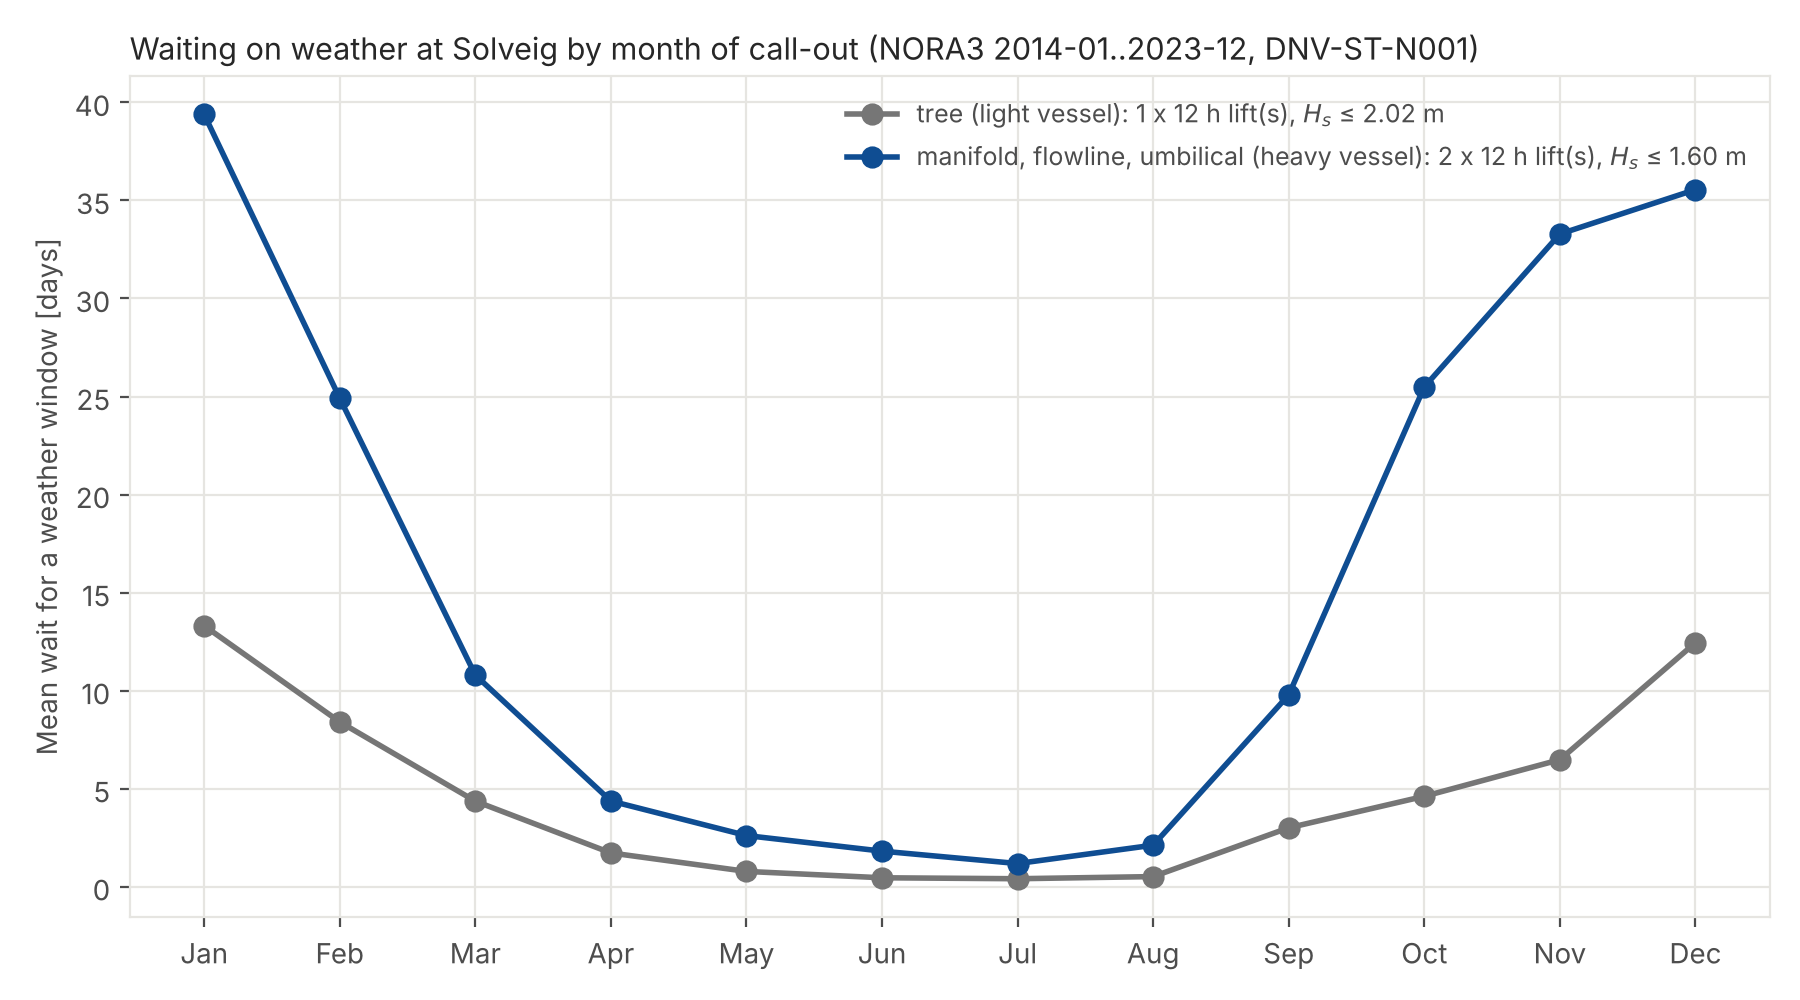
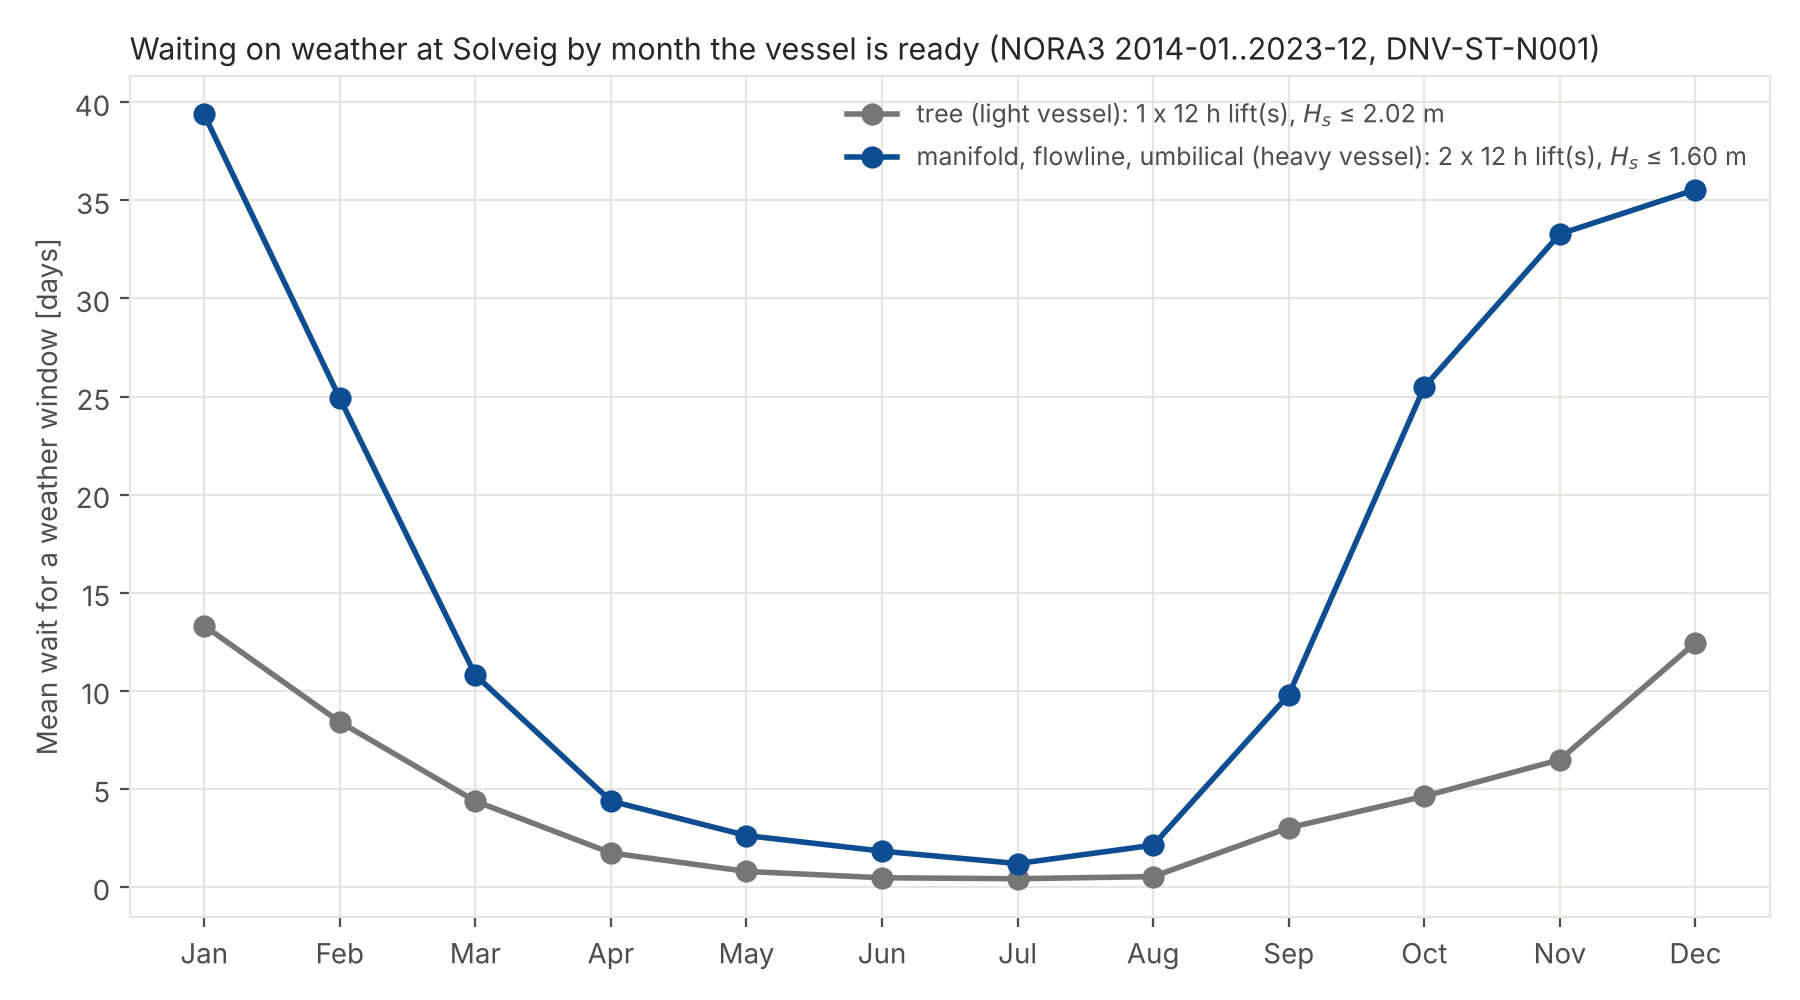
Review fixes: Solveig enumeration test, weather wait wording, Figure 5 label
- tests: cases 1 and 2 of the Solveig case match full enumeration (4,096 assignments)
- weather wait is measured from the hour the vessel is ready, not from call-out:
  Figure 5 x-axis label, weather_windows.py title and the notes in the generated
  summer/winter configs now say so (values unchanged)

Claude-Session: https://claude.ai/code/session_01CSCPdJPHtsRQLDc3d7AWC5

Changed region(s): [[0.3733, 0.031, 0.9022, 0.062]]

diff --git a/scripts/weather_windows.py b/scripts/weather_windows.py
@@ -120,7 +120,7 @@ def main(cfg_path, hs_path):
     ax.set_xticks(range(1, 13), ["Jan", "Feb", "Mar", "Apr", "May", "Jun", "Jul", "Aug", "Sep", "Oct",
                                  "Nov", "Dec"])
     ax.set_ylabel("Mean wait for a weather window [days]", color=C_INK_2)
-    ax.set_title(f"Waiting on weather at Solveig by month of call-out (NORA3 {years}, DNV-ST-N001)",
+    ax.set_title(f"Waiting on weather at Solveig by month the vessel is ready (NORA3 {years}, DNV-ST-N001)",
                  loc="left", color=C_INK, fontsize=11)
     ax.legend(frameon=False, labelcolor=C_INK_2, fontsize=9)
     ax.grid(True, color=C_GRID, lw=0.8)
@@ -134,8 +134,8 @@ def main(cfg_path, hs_path):
     base = Path(cfg_path).name
     for name, mode, season, note in (
             ("solveig_weather.yaml", base_mode, "year", "North Sea case with year-round mean waiting on weather (base)."),
-            ("solveig_weather_winter.yaml", base_mode, "winter", "All repairs called out in winter (Oct-Mar)."),
-            ("solveig_weather_summer.yaml", base_mode, "summer", "All repairs called out in summer (Apr-Sep)."),
+            ("solveig_weather_winter.yaml", base_mode, "winter", "Bound: every repair vessel is ready in winter (Oct-Mar)."),
+            ("solveig_weather_summer.yaml", base_mode, "summer", "Bound: every repair vessel is ready in summer (Apr-Sep)."),
             ("solveig_weather_whole.yaml", "whole", "year", "Upper bound: whole active repair is weather-critical.")):
         p = write_case(name, base, {k: mean[mode, season, k] for k in KINDS}, mode, season, years, note)
         print(f"wrote {p.relative_to(REPO_ROOT)}")

diff --git a/tests/test_optimizer.py b/tests/test_optimizer.py
@@ -80,3 +80,19 @@ def test_unreliable_manifolds_split_the_field(field, cfg):
     cfg["vessels"]["hlv_mobilisation"]["value"] = 90.0
     sol = check_npv(field, cfg)
     assert len(sol.open_sites) >= 2
+
+
+# ---------------------------------------------------------------- Solveig (4 sites: 4^6 = 4,096 assignments)
+def _solveig():
+    from layout_rel.config import REPO_ROOT, field_path, load_config
+    from layout_rel.layout import load_field
+    cfg = load_config(REPO_ROOT / "config" / "solveig_weather.yaml")
+    return load_field(field_path(cfg), param(cfg, "routing.length_factor")), cfg
+
+
+def test_solveig_milps_match_brute_force():
+    """Cases 1 and 2 of the North Sea case return the optimum of full enumeration."""
+    field, cfg = _solveig()
+    assert len(field.sites) ** len(field.wells) == 4096
+    check(field, cfg)
+    check_npv(field, cfg)

diff --git a/scripts/make_paper_figures.py b/scripts/make_paper_figures.py
@@ -69,7 +69,7 @@ def fig5_weather(out):
     ax.set_xticks(range(1, 13), list("JFMAMJJASOND"))
     ax.set_xlim(0.5, 12.5)
     ax.set_ylim(0, 42)
-    ax.set_xlabel("Month of call-out")
+    ax.set_xlabel("Month in which the vessel is ready")
     ax.set_ylabel("Mean wait for a weather window (d)")
     ax.legend(loc="upper center", fontsize=12, bbox_to_anchor=(0.5, 0.93))
     finalize_figure(fig, out)
